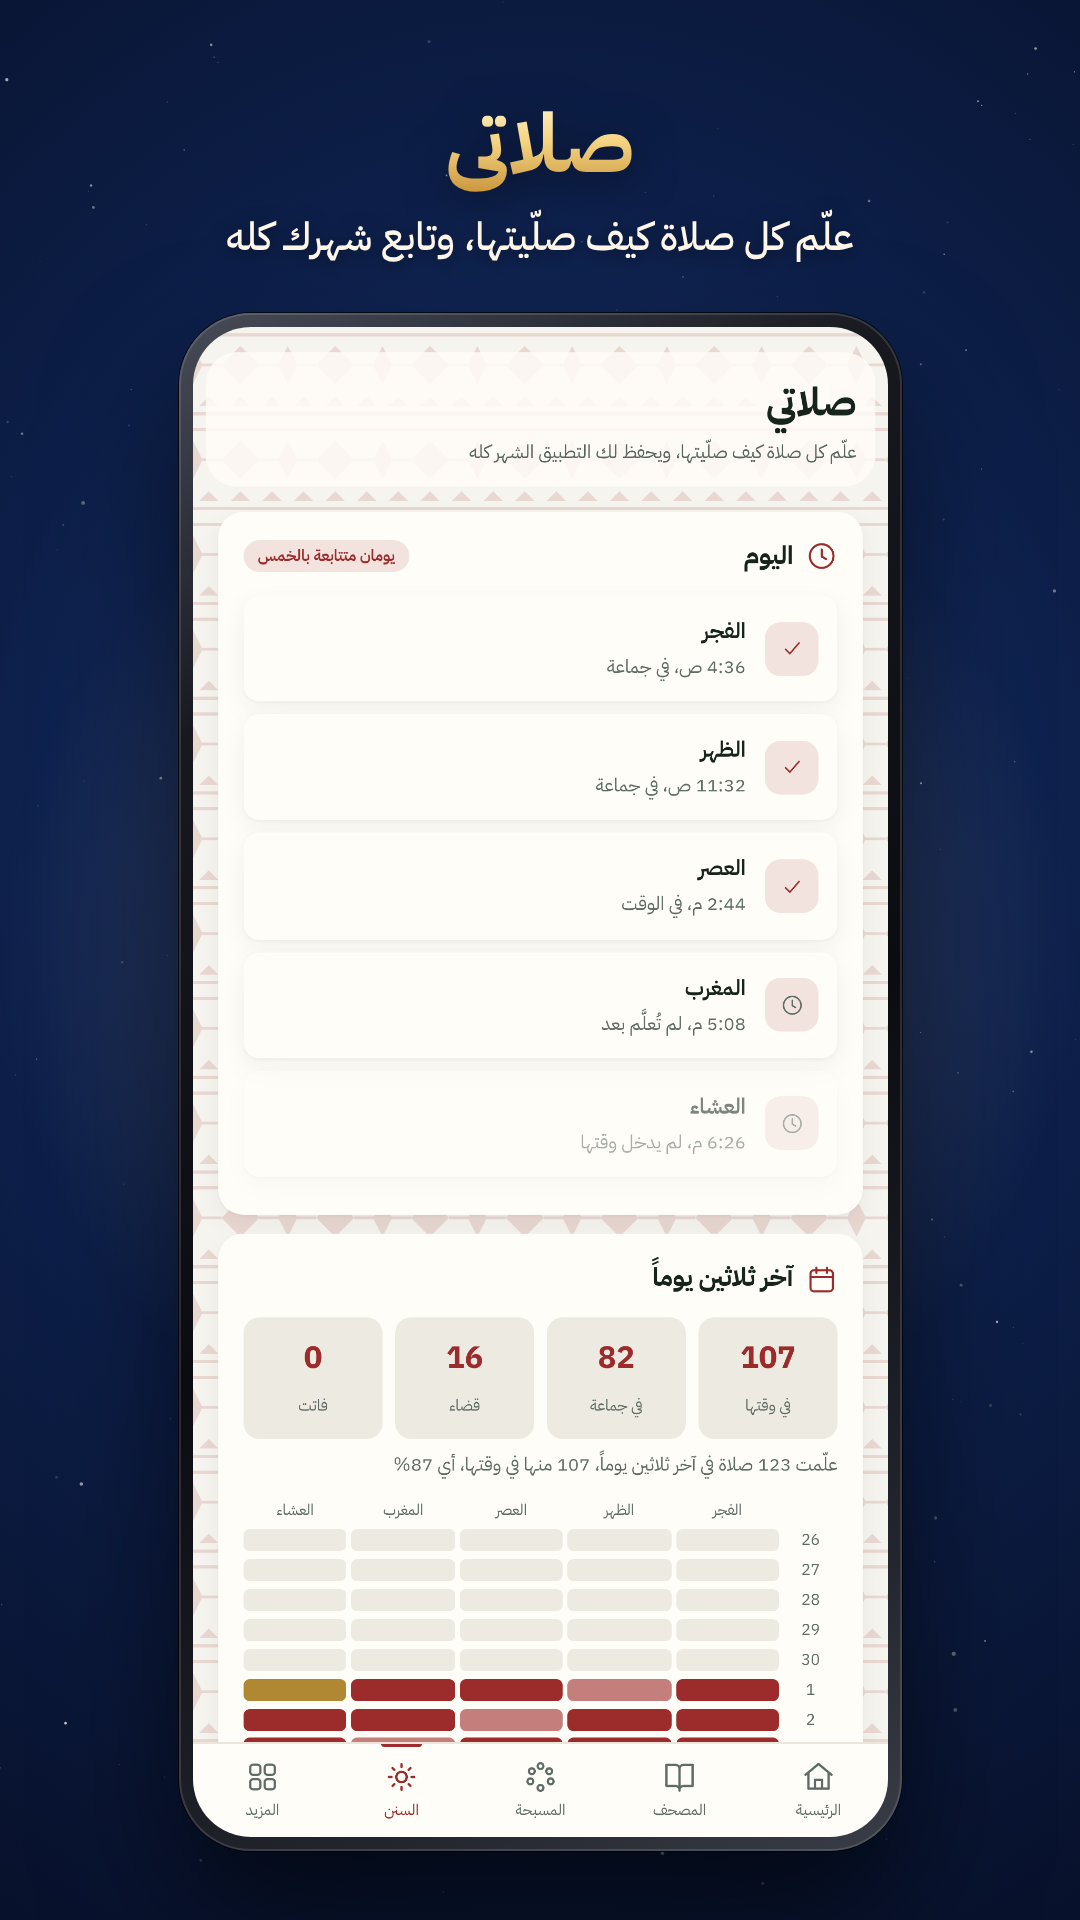
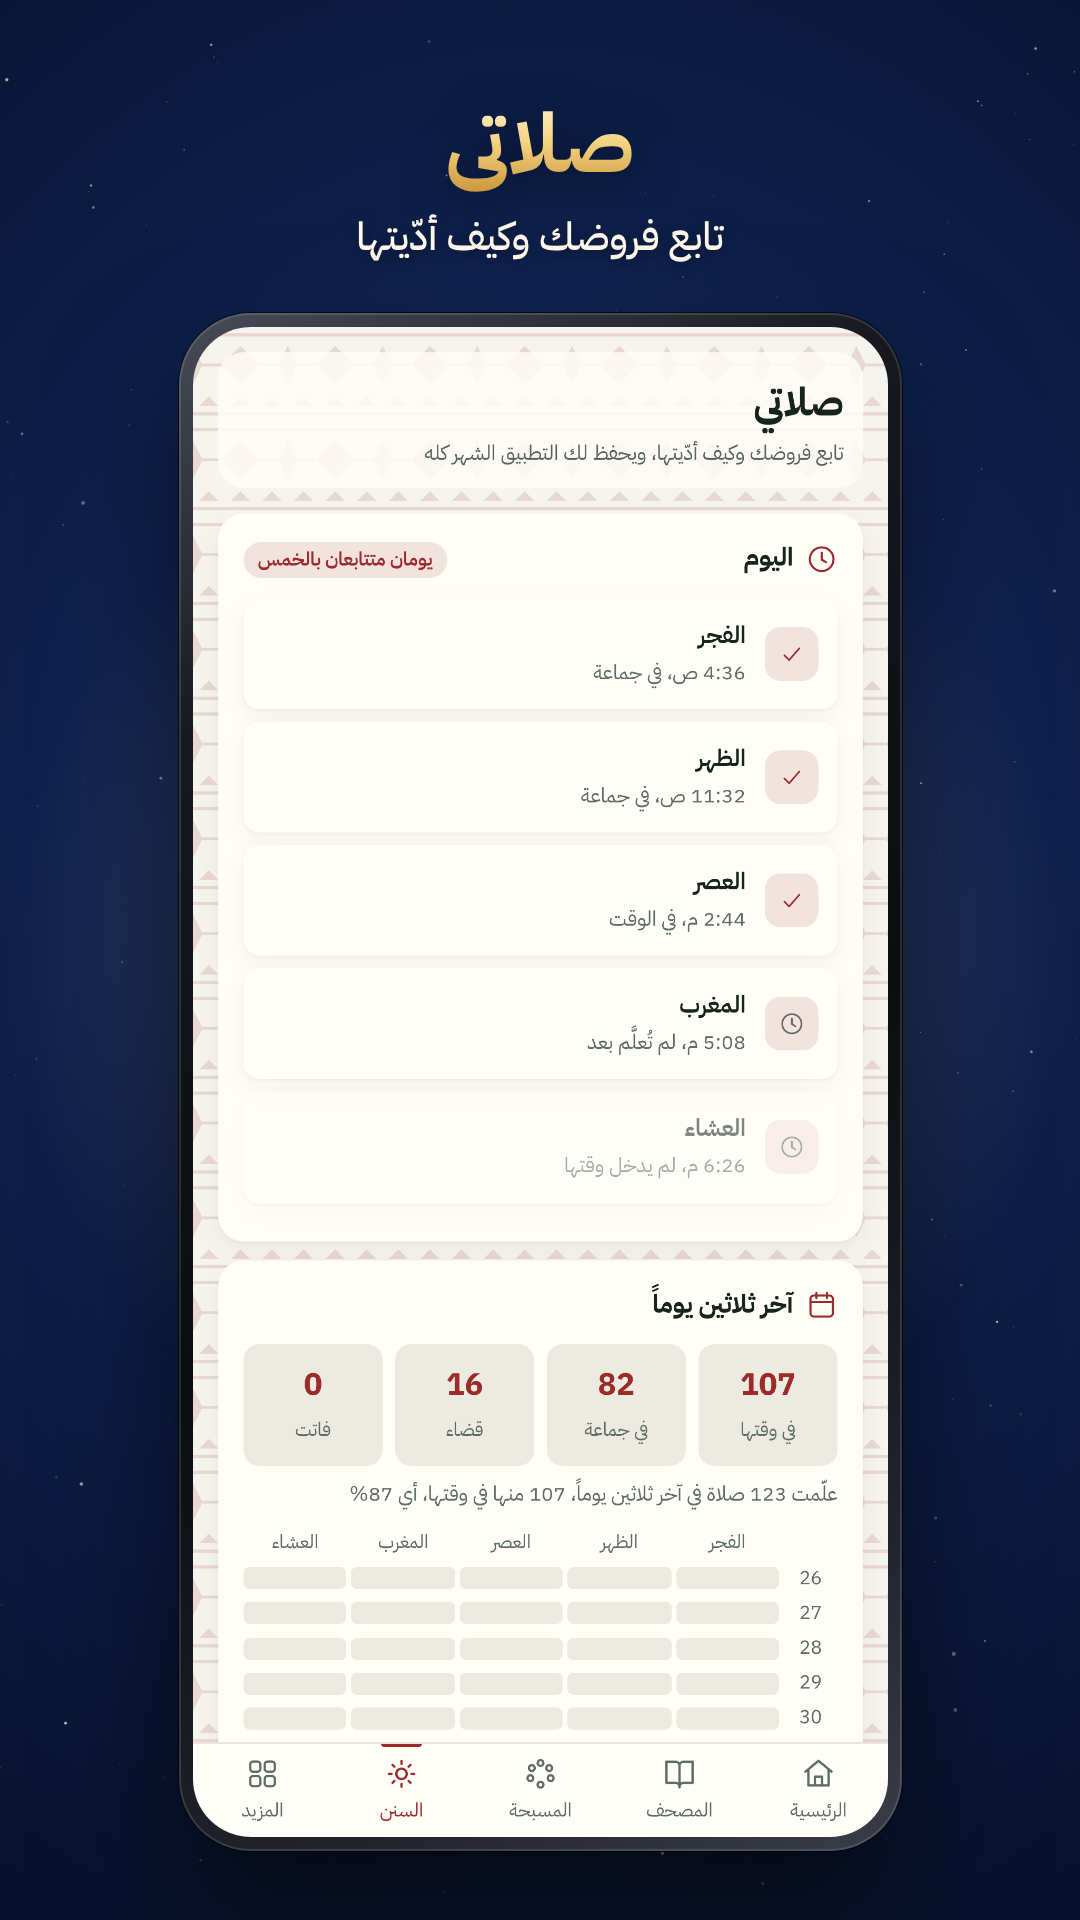
صلاتي

diff --git a/docs/index.html b/docs/index.html
@@ -433,7 +433,7 @@
 
 <!-- ══════════ البحث ══════════ -->
 <section class="view" id="v-prayers" aria-labelledby="prayers-title">
-  <div class="view-head"><h1 id="prayers-title">صلاتي</h1><p>علّم كل صلاة كيف صلّيتها، ويحفظ لك التطبيق الشهر كله</p></div>
+  <div class="view-head"><h1 id="prayers-title">صلاتي</h1><p>تابع فروضك وكيف أدّيتها، ويحفظ لك التطبيق الشهر كله</p></div>
   <div class="card">
     <div class="card-head"><h2><svg class="icon" viewBox="0 0 24 24" aria-hidden="true"><use href="#i-clock"/></svg>اليوم</h2><span class="badge" id="prayers-streak"></span></div>
     <div id="prayers-today"></div>

diff --git a/docs/js/app.js b/docs/js/app.js
@@ -7,7 +7,7 @@
 (function (window, document) {
   'use strict';
 
-  var VERSION = '8.87.80';
+  var VERSION = '8.87.81';
   var DEFAULT_PLACE = { n: 'الكويت', lat: 29.3759, lng: 47.9774, tz: 3, z: 'Asia/Kuwait', method: 'Kuwait' };
   var ARC_LENGTH = 314.16;
   var TOTAL_PAGES = 604;

diff --git a/docs/sw.js b/docs/sw.js
@@ -8,7 +8,7 @@
    The mushaf and the icons never change under the same name, so those stay
    cache first and cost nothing after the first visit. */
 
-var VERSION = 'sunnati-v8.87.80';
+var VERSION = 'sunnati-v8.87.81';
 
 var SHELL = [
   './',

diff --git a/README.md b/README.md
@@ -4,7 +4,7 @@
 
 **مصحف ومواقيت وأذكار وسنن في جهازك، المصحف كاملاً وأوقات الصلاة والأذكار والقبلة وتتبع السنن، كله يعمل في جهازك بلا إنترنت**
 
-[![الإصدار](https://img.shields.io/badge/الإصدار-8.87.80-1e6f47?style=flat-square)]()
+[![الإصدار](https://img.shields.io/badge/الإصدار-8.87.81-1e6f47?style=flat-square)]()
 [![الرخصة](https://img.shields.io/badge/الحقوق-محفوظة-b08833?style=flat-square)](LICENSE)
 [![بلا اعتماديات](https://img.shields.io/badge/بلا_اعتماديات-0-1e6f47?style=flat-square)]()
 
